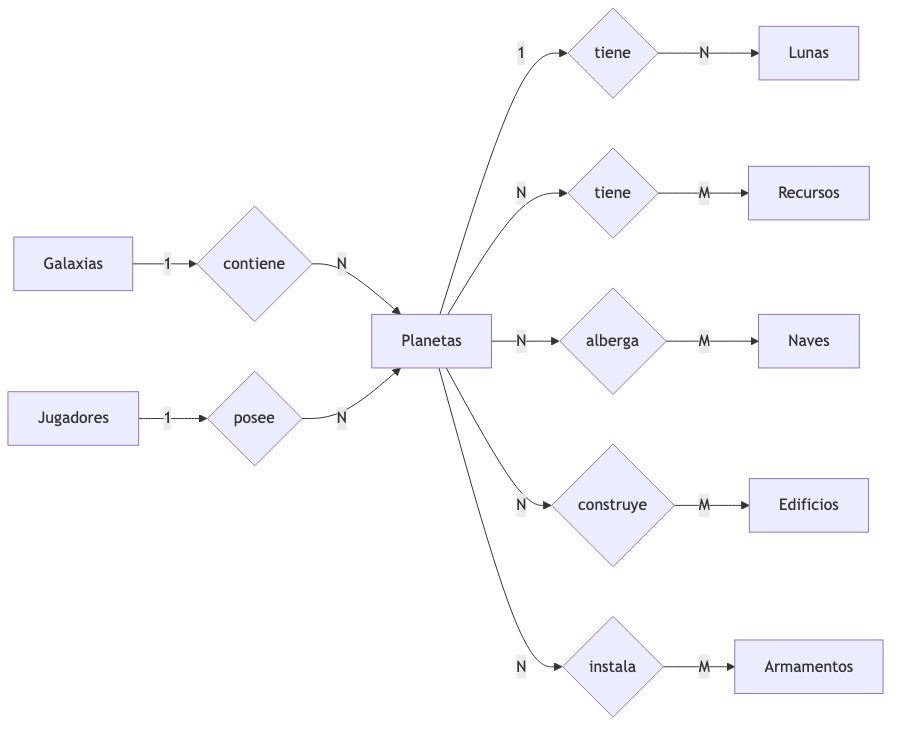
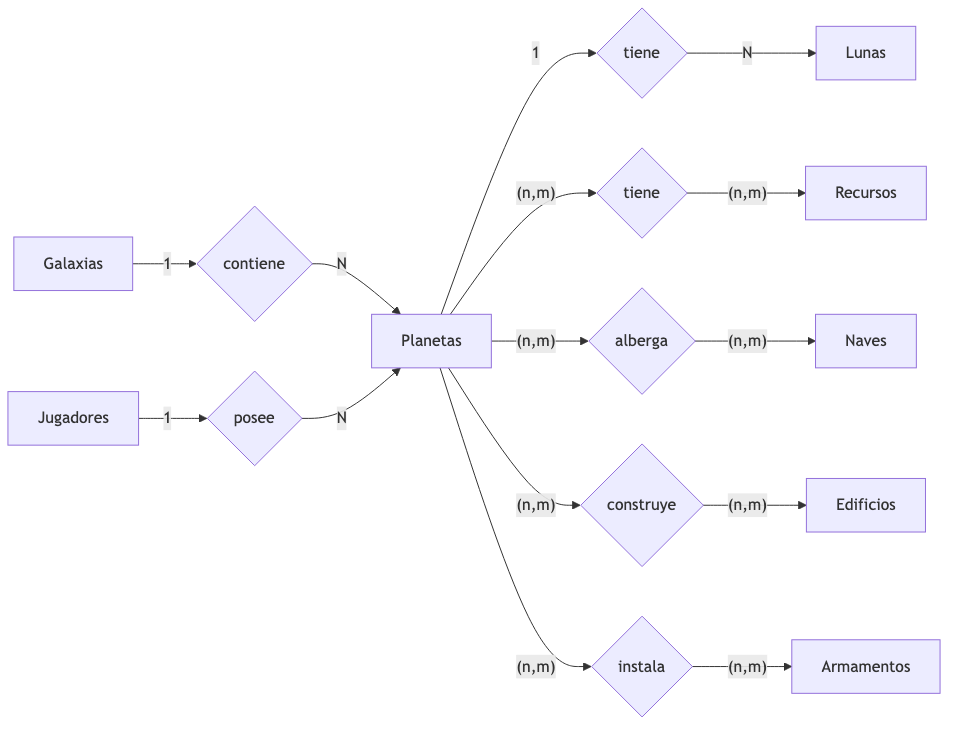
Ajustar DER n:m y querys sin join

diff --git a/base-de-datos-parcial-1-main/docs/DER.md b/base-de-datos-parcial-1-main/docs/DER.md
@@ -4,6 +4,8 @@
 - Diagrama validado y listo para render.
 - DER gráfico para entrega (rombos y rectángulos): `docs/DER_grafico.png`
 - Modelo lógico con PK/FK marcadas: `docs/Modelo_Logico.png`
+- En el DER gráfico, las N:M se muestran explícitamente como `(n,m)` (sin `(0,n)`).
+- En el modelo lógico, las PK están subrayadas y las FK están indicadas con su referencia.
 
 **Relaciones clave (basadas en `base de datos/imperio.sql`):**
 - `Planetas.id_galaxia` -> 1:N `Galaxias` → `GALAXIAS ||--|{ PLANETAS`.